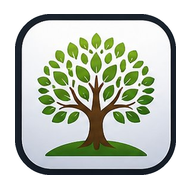
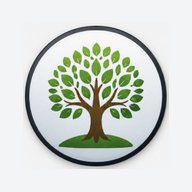
Add files via upload

diff --git a/index.html b/index.html
@@ -984,11 +984,8 @@ body.mobile-mode #fsaSaveBtn2 { display:none !important; }
     <button id="searchClearBtn" style="display:none">✕</button>
     <div id="searchResultsPanel" style="display:none"></div>
     <button class="btn primary" onclick="openAddModal(null)">+ إضافة فرد</button>
-    <button class="btn" onclick="toggleAll(true)">فتح الكل</button>
-    <button class="btn" onclick="toggleAll(false)">غلق الكل</button>
-    <button class="btn" onclick="exportData()" title="حفظ كملف HTML مع الإعدادات السحابية — للمالك فقط">💾 حفظ نسخة</button>
+    <button class="btn" id="toggleAllBtn" onclick="toggleAllBtn()">فتح الكل</button>
     <button class="btn" id="fsaSaveBtn2" onclick="fsaPickFile()" title="ربط الملف للحفظ التلقائي على الجوال — Chrome/Edge" style="display:none">📁 ربط الملف</button>
-    <button class="btn" id="exportFamilyBtn" onclick="exportFamilyCopy()" title="حفظ نسخة للمشاركة مع العائلة — تحتوي إعدادات الرفع الصامت تلقائياً" style="display:none">📤 نسخة للعائلة</button>
     <button class="btn" id="familyUploadSetupBtn" onclick="openFamilyUploadSetup()" title="إعداد الرفع الصامت لنسخة العائلة" style="display:none">⚙️ إعداد رفع العائلة</button>
     <button class="btn" id="familyUpdatesBtn" onclick="openFamilyUpdatesModal()" title="اطلع على آخر تحديث رفعته العائلة" style="display:none;background:#ede9fe;border-color:#8b5cf6;color:#5b21b6">📡 تحديثات العائلة</button>
     <button class="btn" id="mergeLogBtn" onclick="openMergeLogModal()" title="سجل الدمج" style="display:none;background:#f8fafc;border-color:#8b5cf6;color:#5b21b6">📜 سجل الدمج</button>
@@ -1020,7 +1017,7 @@ body.mobile-mode #fsaSaveBtn2 { display:none !important; }
   <div class="sheet-btns" id="mob-sheet-btns"></div>
 </div>
 
-<script>
+<script id="__main_app_script__">
 var _HTML_TEMPLATE=document.documentElement.outerHTML;
 
 /* ══════════════════════════════════════════════════════════
@@ -2562,6 +2559,16 @@ function toggleAll(open){
   renderAll();
 }
 
+// ── Toggle All (فتح/غلق) — single button ──
+function toggleAllBtn(){
+  var btn=document.getElementById('toggleAllBtn');
+  // Determine current state: if any expanded=true → all open → close all
+  var anyOpen=Object.values(expanded).some(function(v){return v;});
+  var doOpen=!anyOpen;
+  toggleAll(doOpen);
+  if(btn) btn.textContent=doOpen?'غلق الكل':'فتح الكل';
+}
+
 function levenshtein(a,b){
   const matrix = Array.from({length: b.length+1}, (_,i)=>[i]);
   for(let j=0;j<=a.length;j++) matrix[0][j]=j;
@@ -3031,7 +3038,7 @@ function exportData(){
       if(!cleanAppHTML)cleanAppHTML=document.getElementById('app').outerHTML;
 
       // ── 4. Get exact main script source (last script element = main app) ──
-      var mainSrc=document.scripts[document.scripts.length-1].textContent;
+      var mainSrc=document.getElementById('__main_app_script__').textContent;
 
       // ── تضمين CLOUD_CONFIG في الملف المحفوظ ──
       if(CLOUD_CONFIG.KEY_HEX&&CLOUD_CONFIG.GITHUB_PAT){
@@ -3073,7 +3080,7 @@ function exportData(){
         cleanAppHTML+'\n'+
         '<div id="modalContainer"></div>\n'+
         dataTag+'\n'+
-        '<scr'+'ipt>\n'+mainSrc+'\n<\/sc'+'ript>\n'+
+        '<scr'+'ipt id="__main_app_script__">\n'+mainSrc+'\n<\/sc'+'ript>\n'+
         '</body>\n</html>';
 
       // ── 6. Download ──
@@ -3100,7 +3107,7 @@ function showExportJSONModal(){
   let photoCount=people.filter(p=>p.photo).length;
   let sizeEst=photoCount>0?`~${Math.round(photoCount*40)} KB إضافية للصور`:'لا توجد صور';
   // خيار "للعائلة" يظهر فقط لنسخة المالك
-  let familyOption=IS_FAMILY_COPY?'':_buildFamilyExportOption();
+  let familyOption='';
   let html=`<div class="modal-overlay" onclick="if(event.target===this)closeModal()">
   <div class="modal" style="max-width:420px;">
     <h3>📤 تصدير JSON</h3>
@@ -7679,7 +7686,7 @@ async function exportFamilyCopy(){
     if(!cleanAppHTML)cleanAppHTML=document.getElementById('app').outerHTML;
 
     // الكود المصدري — تعديل الثوابت
-    var mainSrc=document.scripts[document.scripts.length-1].textContent;
+    var mainSrc=document.getElementById('__main_app_script__').textContent;
 
     // 1a. حذف CLOUD_CONFIG كاملاً — لا مفاتيح المالك السحابية في نسخة العائلة
     mainSrc=mainSrc.replace(
@@ -7714,7 +7721,7 @@ async function exportFamilyCopy(){
       '<body>\n'+
       cleanAppHTML+'\n'+
       '<div id="modalContainer"></div>\n'+
-      '<scr'+'ipt>\n'+mainSrc+'\n<\/sc'+'ript>\n'+
+      '<scr'+'ipt id="__main_app_script__">\n'+mainSrc+'\n<\/sc'+'ript>\n'+
       '</body>\n</html>';
 
     // ════ 2. manifest.json ════
@@ -7741,7 +7748,7 @@ async function exportFamilyCopy(){
     var swContent=`/* شجرة العائلة — Service Worker */
 const CACHE_NAME='family-tree-v1';
 const SHELL_CACHE='family-tree-shell-v1';
-const STATIC_ASSETS=['./manifest.json','./icons/icon-192x192.png','./icons/icon-512x512.png','./icons/icon-maskable-192x192.png','./icons/icon-maskable-512x512.png','./icons/apple-touch-icon.png'];
+const STATIC_ASSETS=['./manifest.json','./icons/icon-192x192.png','./icons/icon-512x512.png','./icons/apple-touch-icon.png'];
 self.addEventListener('install',e=>{e.waitUntil(caches.open(SHELL_CACHE).then(c=>c.addAll(STATIC_ASSETS)).then(()=>self.skipWaiting()).catch(()=>self.skipWaiting()));});
 self.addEventListener('activate',e=>{e.waitUntil(caches.keys().then(keys=>Promise.all(keys.filter(k=>k!==CACHE_NAME&&k!==SHELL_CACHE).map(k=>caches.delete(k)))).then(()=>self.clients.claim()));});
 self.addEventListener('fetch',e=>{
@@ -7763,60 +7770,19 @@ async function cacheFirst(req){
 }
 self.addEventListener('message',e=>{if(e.data==='SKIP_WAITING')self.skipWaiting();});`;
 
-    // ════ 4. توليد الأيقونات داخلياً ════
-    _toast.innerHTML='⏳ جارٍ توليد الأيقونات...';
-    function loadImage(src){
-      return new Promise(function(resolve,reject){
-        var img=new Image();
-        img.onload=function(){resolve(img);};
-        img.onerror=function(){reject(new Error('Failed to load '+src));};
-        img.src=src;
-      });
-    }
-    function canvasToArrayBuffer(canvas){
-      return new Promise(function(resolve){
-        canvas.toBlob(function(blob){
-          if(!blob){resolve(null);return;}
-          blob.arrayBuffer().then(resolve);
-        },'image/png');
-      });
-    }
-    function renderIcon(source,size,maskable){
-      var canvas=document.createElement('canvas');
-      canvas.width=size;canvas.height=size;
-      var ctx=canvas.getContext('2d');
-      ctx.imageSmoothingEnabled=true;
-      ctx.imageSmoothingQuality='high';
-      if(maskable){
-        var pad=Math.round(size*0.08);
-        var target=size-pad*2;
-        ctx.drawImage(source,pad,pad,target,target);
-      }else{
-        ctx.drawImage(source,0,0,size,size);
-      }
-      return canvas;
-    }
-    var sourceIcon=await loadImage('./icons/icon-512x512.png');
-    var iconSpecs=[
-      {path:'icons/apple-touch-icon.png',size:180,purpose:'any'},
-      {path:'icons/icon-72x72.png',size:72,purpose:'any'},
-      {path:'icons/icon-96x96.png',size:96,purpose:'any'},
-      {path:'icons/icon-128x128.png',size:128,purpose:'any'},
-      {path:'icons/icon-144x144.png',size:144,purpose:'any'},
-      {path:'icons/icon-152x152.png',size:152,purpose:'any'},
-      {path:'icons/icon-192x192.png',size:192,purpose:'any'},
-      {path:'icons/icon-384x384.png',size:384,purpose:'any'},
-      {path:'icons/icon-512x512.png',size:512,purpose:'any'},
-      {path:'icons/icon-maskable-192x192.png',size:192,purpose:'maskable'},
-      {path:'icons/icon-maskable-512x512.png',size:512,purpose:'maskable'}
+    // ════ 4. جلب الأيقونات ════
+    _toast.innerHTML='⏳ جارٍ تحميل الأيقونات...';
+    var iconFiles=[
+      'icons/apple-touch-icon.png','icons/icon-72x72.png','icons/icon-96x96.png',
+      'icons/icon-128x128.png','icons/icon-144x144.png','icons/icon-152x152.png',
+      'icons/icon-192x192.png','icons/icon-384x384.png','icons/icon-512x512.png',
+      'icons/icon-maskable-192x192.png','icons/icon-maskable-512x512.png'
     ];
     var iconData={};
-    for(var i=0;i<iconSpecs.length;i++){
-      var spec=iconSpecs[i];
-      var canvas=renderIcon(sourceIcon,spec.size,spec.purpose==='maskable');
-      var buffer=await canvasToArrayBuffer(canvas);
-      if(buffer)iconData[spec.path]=buffer;
-    }
+    await Promise.all(iconFiles.map(async function(path){
+      try{var resp=await fetch('./'+path);if(resp.ok)iconData[path]=await resp.arrayBuffer();}
+      catch(e){console.warn('Could not fetch icon:',path);}
+    }));
 
     // ════ 5. دليل الاستضافة ════
     var guide=`# 🌳 شجرة العائلة — دليل رفع نسخة العائلة
@@ -7827,7 +7793,7 @@ family-tree-pwa/
 ├── index.html       ← التطبيق (بدون بيانات — يطلب استيراد JSON)
 ├── manifest.json
 ├── sw.js
-└── icons/  (11 أيقونة PNG تولَّد داخليًا)
+└── icons/  (11 أيقونة PNG)
 \`\`\`
 
 ## رفع على GitHub Pages (مجاني — مُوصى به)
@@ -8172,7 +8138,7 @@ function _buildSaveHTML(){
     if(tApp)cleanAppHTML=tApp.outerHTML;
   }catch(ex){}
   if(!cleanAppHTML)cleanAppHTML=document.getElementById('app').outerHTML;
-  var mainSrc=document.scripts[document.scripts.length-1].textContent;
+  var mainSrc=document.getElementById('__main_app_script__').textContent;
   // تضمين إعدادات السحابة
   if(CLOUD_CONFIG.KEY_HEX&&CLOUD_CONFIG.GITHUB_PAT){
     mainSrc=mainSrc.replace(/KEY_HEX:\s*'[^']*'/,"KEY_HEX: '"+CLOUD_CONFIG.KEY_HEX+"'")
@@ -8189,7 +8155,7 @@ function _buildSaveHTML(){
   }
   return '<!DOCTYPE html>\n<html'+htmlAttrs+'>\n'+document.head.outerHTML+'\n<body>\n'+
     cleanAppHTML+'\n<div id="modalContainer"></div>\n'+dataTag+'\n'+
-    '<scr'+'ipt>\n'+mainSrc+'\n<\/sc'+'ript>\n</body>\n</html>';
+    '<scr'+'ipt id="__main_app_script__">\n'+mainSrc+'\n<\/sc'+'ript>\n</body>\n</html>';
 }
 
 async function _fsaWriteNow(){
@@ -8330,7 +8296,7 @@ function _fsaShowFallbackBar(){
     var hint=document.getElementById('fsaHint');
     if(hint)hint.textContent='متصفحك لا يدعم الحفظ التلقائي — اضغط "💾 حفظ نسخة" بعد كل تعديل';
     var btn=document.getElementById('fsaSaveBtn');
-    if(btn){btn.innerHTML='💾 حفظ نسخة';btn.onclick=exportData;}
+    // export btn removed
   }
 }
 async function fsaRequestPermission(){
@@ -8444,6 +8410,8 @@ deletePerson=function(id){
   // ── تهيئة وضع الجوال ──
   initMobileMode();
   renderAll();
+  // مزامنة نص زر فتح/غلق الكل مع الحالة الفعلية
+  (function(){var btn=document.getElementById('toggleAllBtn');if(btn){var anyOpen=Object.values(expanded).some(function(v){return v;});btn.textContent=anyOpen?'غلق الكل':'فتح الكل';}}());
   // تهيئة الحفظ السحابي
   await initCloud();
   // ── إظهار بانر الجهاز الجديد إذا كانت السحابة مُعدَّة ──

diff --git a/_inline_scripts.js b/_inline_scripts.js
@@ -1690,6 +1690,15 @@ function toggleAll(open){
   renderAll();
 }
 
+// ── Toggle All (فتح/غلق) — single button ──
+function toggleAllBtn(){
+  var btn=document.getElementById('toggleAllBtn');
+  var anyOpen=Object.values(expanded).some(function(v){return v;});
+  var doOpen=!anyOpen;
+  toggleAll(doOpen);
+  if(btn) btn.textContent=doOpen?'غلق الكل':'فتح الكل';
+}
+
 function levenshtein(a,b){
   const matrix = Array.from({length: b.length+1}, (_,i)=>[i]);
   for(let j=0;j<=a.length;j++) matrix[0][j]=j;
@@ -2159,7 +2168,7 @@ function exportData(){
       if(!cleanAppHTML)cleanAppHTML=document.getElementById('app').outerHTML;
 
       // ── 4. Get exact main script source (last script element = main app) ──
-      var mainSrc=document.scripts[document.scripts.length-1].textContent;
+      var mainSrc=document.getElementById('__main_app_script__').textContent;
 
       // ── تضمين CLOUD_CONFIG في الملف المحفوظ ──
       if(CLOUD_CONFIG.KEY_HEX&&CLOUD_CONFIG.GITHUB_PAT){
@@ -2201,7 +2210,7 @@ function exportData(){
         cleanAppHTML+'\n'+
         '<div id="modalContainer"></div>\n'+
         dataTag+'\n'+
-        '<scr'+'ipt>\n'+mainSrc+'\n<\/sc'+'ript>\n'+
+        '<scr'+'ipt id="__main_app_script__">\n'+mainSrc+'\n<\/sc'+'ript>\n'+
         '</body>\n</html>';
 
       // ── 6. Download ──
@@ -2228,7 +2237,7 @@ function showExportJSONModal(){
   let photoCount=people.filter(p=>p.photo).length;
   let sizeEst=photoCount>0?`~${Math.round(photoCount*40)} KB إضافية للصور`:'لا توجد صور';
   // خيار "للعائلة" يظهر فقط لنسخة المالك
-  let familyOption=IS_FAMILY_COPY?'':_buildFamilyExportOption();
+  let familyOption='';
   let html=`<div class="modal-overlay" onclick="if(event.target===this)closeModal()">
   <div class="modal" style="max-width:420px;">
     <h3>📤 تصدير JSON</h3>
@@ -6807,7 +6816,7 @@ async function exportFamilyCopy(){
     if(!cleanAppHTML)cleanAppHTML=document.getElementById('app').outerHTML;
 
     // الكود المصدري — تعديل الثوابت
-    var mainSrc=document.scripts[document.scripts.length-1].textContent;
+    var mainSrc=document.getElementById('__main_app_script__').textContent;
 
     // 1a. حذف CLOUD_CONFIG كاملاً — لا مفاتيح المالك السحابية في نسخة العائلة
     mainSrc=mainSrc.replace(
@@ -6842,7 +6851,7 @@ async function exportFamilyCopy(){
       '<body>\n'+
       cleanAppHTML+'\n'+
       '<div id="modalContainer"></div>\n'+
-      '<scr'+'ipt>\n'+mainSrc+'\n<\/sc'+'ript>\n'+
+      '<scr'+'ipt id="__main_app_script__">\n'+mainSrc+'\n<\/sc'+'ript>\n'+
       '</body>\n</html>';
 
     // ════ 2. manifest.json ════
@@ -7259,7 +7268,7 @@ function _buildSaveHTML(){
     if(tApp)cleanAppHTML=tApp.outerHTML;
   }catch(ex){}
   if(!cleanAppHTML)cleanAppHTML=document.getElementById('app').outerHTML;
-  var mainSrc=document.scripts[document.scripts.length-1].textContent;
+  var mainSrc=document.getElementById('__main_app_script__').textContent;
   // تضمين إعدادات السحابة
   if(CLOUD_CONFIG.KEY_HEX&&CLOUD_CONFIG.GITHUB_PAT){
     mainSrc=mainSrc.replace(/KEY_HEX:\s*'[^']*'/,"KEY_HEX: '"+CLOUD_CONFIG.KEY_HEX+"'")
@@ -7276,7 +7285,7 @@ function _buildSaveHTML(){
   }
   return '<!DOCTYPE html>\n<html'+htmlAttrs+'>\n'+document.head.outerHTML+'\n<body>\n'+
     cleanAppHTML+'\n<div id="modalContainer"></div>\n'+dataTag+'\n'+
-    '<scr'+'ipt>\n'+mainSrc+'\n<\/sc'+'ript>\n</body>\n</html>';
+    '<scr'+'ipt id="__main_app_script__">\n'+mainSrc+'\n<\/sc'+'ript>\n</body>\n</html>';
 }
 
 async function _fsaWriteNow(){
@@ -7417,7 +7426,7 @@ function _fsaShowFallbackBar(){
     var hint=document.getElementById('fsaHint');
     if(hint)hint.textContent='متصفحك لا يدعم الحفظ التلقائي — اضغط "💾 حفظ نسخة" بعد كل تعديل';
     var btn=document.getElementById('fsaSaveBtn');
-    if(btn){btn.innerHTML='💾 حفظ نسخة';btn.onclick=exportData;}
+    // export btn removed
   }
 }
 async function fsaRequestPermission(){
@@ -7531,6 +7540,8 @@ deletePerson=function(id){
   // ── تهيئة وضع الجوال ──
   initMobileMode();
   renderAll();
+  // مزامنة نص زر فتح/غلق الكل مع الحالة الفعلية
+  (function(){var btn=document.getElementById('toggleAllBtn');if(btn){var anyOpen=Object.values(expanded).some(function(v){return v;});btn.textContent=anyOpen?'غلق الكل':'فتح الكل';}}());
   // تهيئة الحفظ السحابي
   await initCloud();
   // ── إظهار بانر الجهاز الجديد إذا كانت السحابة مُعدَّة ──